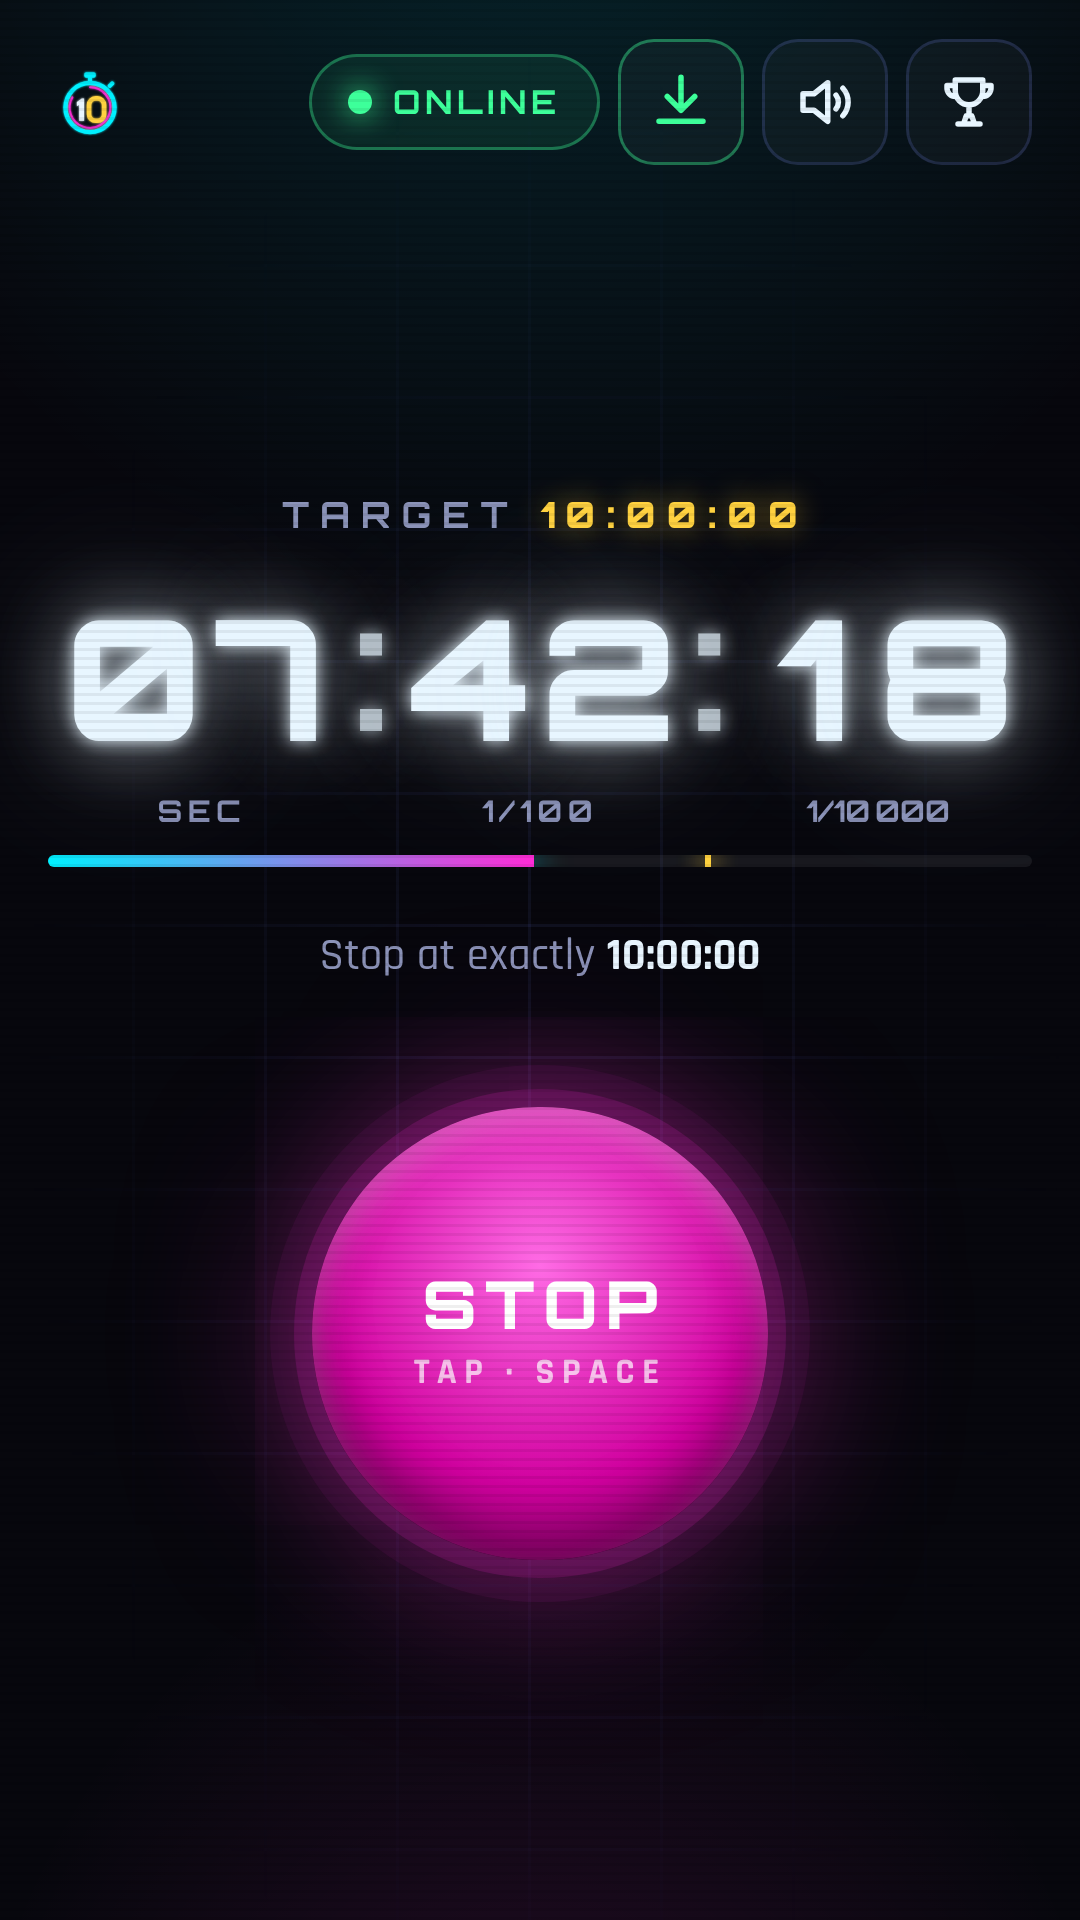
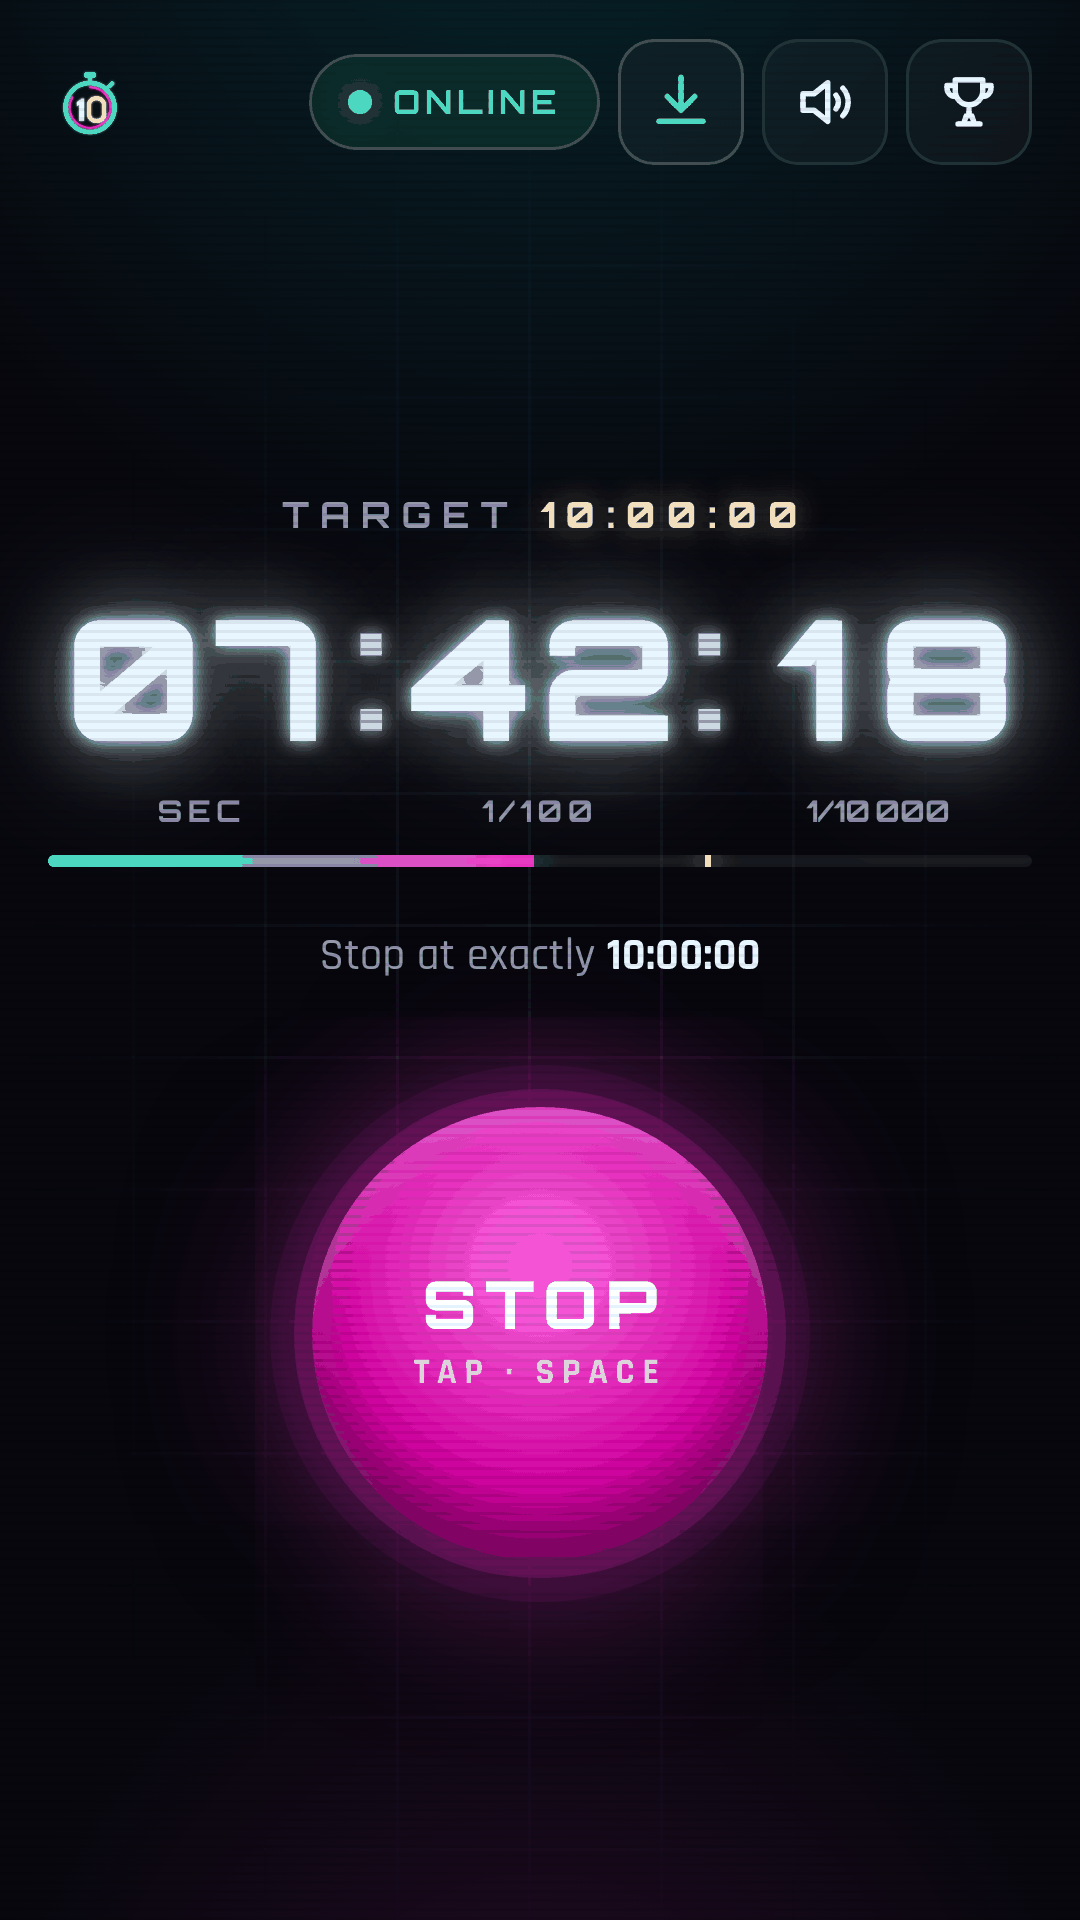
Compress launch screens and store screenshots
Claude-Session: https://claude.ai/code/session_01W52dhiNCrakLVXjztDsVpa

diff --git a/README.md b/README.md
@@ -5,7 +5,7 @@ Stop the clock at exactly **10:00:00**. A precision arcade game, built as an ins
 ```bash
 npm start          # http://localhost:8080  (Node 20+, no dependencies)
 npm test           # timing + API tests
-npm run assets     # regenerate icons and iOS launch screens (needs Playwright)
+npm run assets     # regenerate icons and iOS launch screens (needs Playwright; then quantize the PNGs to keep them small)
 ```
 
 ## Timer format: `SS:CC:XX`
